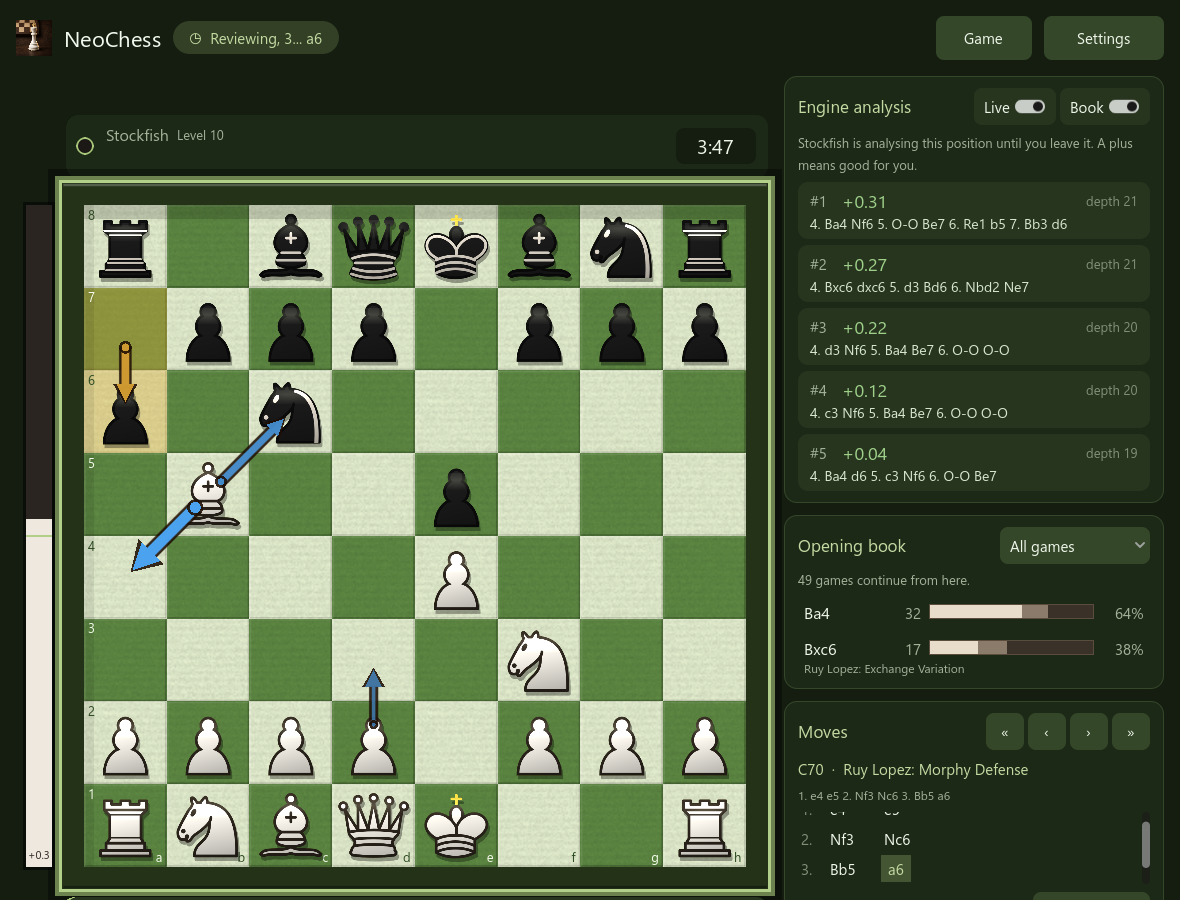
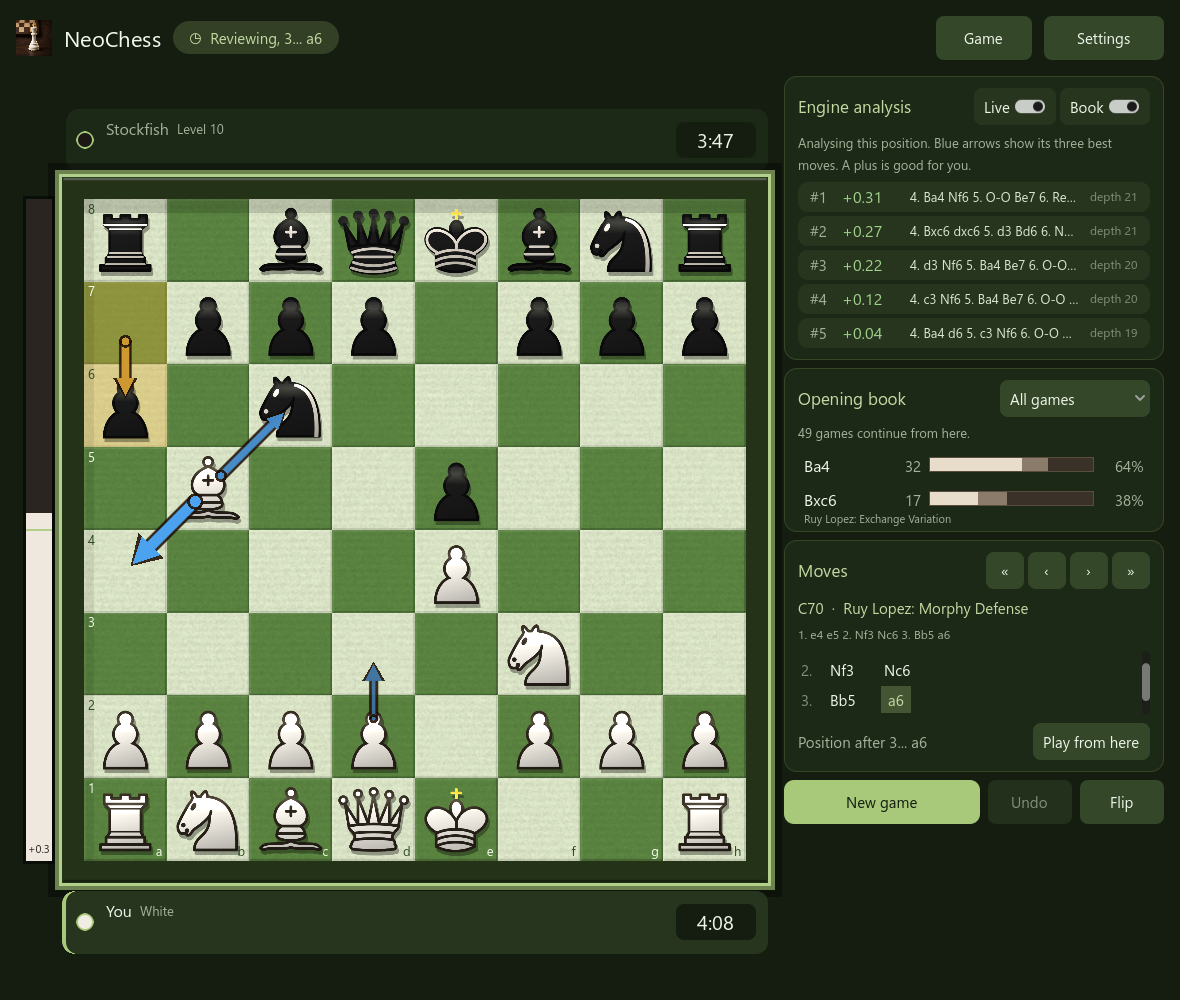
fix: fit the whole sidebar in the window (compact lines, 1180x1000, scroll fallback)
The opening names made the sidebar taller than the window, cutting off the buttons. Branch lines are now one row each, hints are shorter, the book shows five rows, the window opens at 1180x1000 and the column scrolls instead of clipping if it is ever too tall.

diff --git a/docs/using-neochess.md b/docs/using-neochess.md
@@ -1,6 +1,7 @@
 # Using NeoChess
 
 - [Playing a game](#playing-a-game)
+- [The window](#the-window)
 - [Controls](#controls)
 - [Engine analysis and the Live switch](#engine-analysis-and-the-live-switch)
 - [Which opening is this?](#which-opening-is-this)
@@ -33,6 +34,10 @@ needs no engine. Switching the opponent starts a new game.
 A game ends on checkmate, stalemate, threefold repetition, the fifty-move rule or
 insufficient material. When it ends, or when you start a new game over an
 unfinished one, it is saved to your [library](game-library.md).
+
+## The window
+
+NeoChess opens at 1180 x 1000 so everything fits: the board, the engine lines, the opening book, the move list and the buttons. You can resize the window freely. The whole layout scales with it, so nothing is cut off on a smaller screen. If a font or a long list ever makes the right-hand column taller than the window, that column gets a scroll bar instead of losing its bottom buttons.
 
 ## Controls
 
